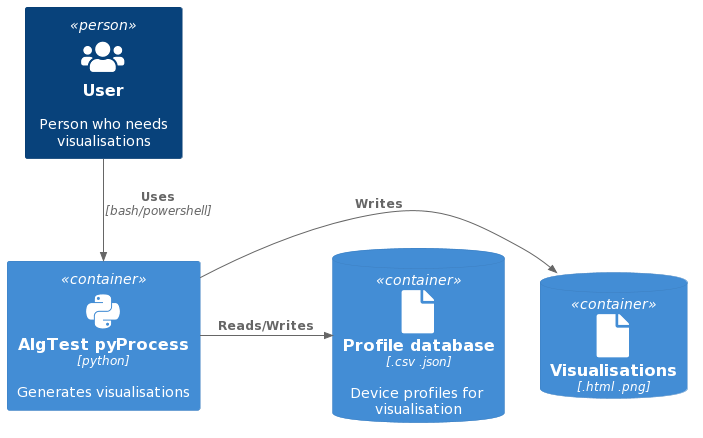
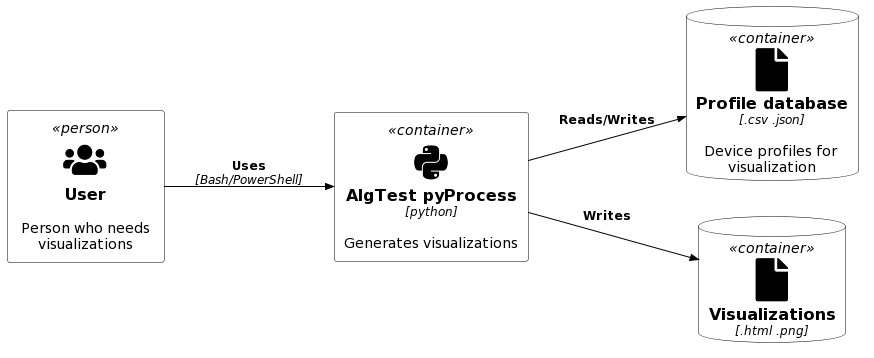
refactor: rewrites in imple part

diff --git a/Sources/Implementation.tex b/Sources/Implementation.tex
@@ -1,6 +1,11 @@
-\chapter{AlgTest process tool}
-In this chapter, we describe the development details of the tool called \texttt{AlgTest Process} of which re-implementation was performed. The tasks for which the tool is responsible are processing the datasets created by automatic testing tools targeted at JavaCard smart cards and Trusted Platform Modules and generating various outputs from these datasets in HTML files.
+\chapter{AlgTest pyProcess tool}
+This chapter describes the development details behind the tool called \texttt{AlgTest pyProcess}, creation of which was main goal of this thesis. Its development began as a reimplementation of tool called \texttt{JCAlgTest Process}. The reasons behind the reimplementation are mentioned in previous chapter.
 
+The \texttt{AlgTest pyProcess} tool responsible for the following tasks:
+\begin{itemize}
+    \item Processing the device profiles generated by automatic testing tools targeted at Trusted Platform Modules and JavaCard smart cards,
+    \item Generation of various outputs from these datasets which are primarily tabular and graphical visualizations.
+\end{itemize}
 \begin{figure}[h]
     \centering
     \includegraphics[width=\textwidth]{img/scheme.png}
@@ -10,12 +15,23 @@ In this chapter, we describe the development details of the tool called \texttt{
 
 
 \section{Parsing}
-The data, namely the run time results we are working with, were collected over the years in parallel with the development of the tools which generate them. Consequentially the data does not have the same form, as there is no prescribed schema. Therefore it is convenient to design suitable means of accessing it. In the re-implementation of the app, the mapping of CSV files into corresponding classes was introduced. This approach makes it significantly easier to manipulate the data, and the resulting code readability is better.
+The \texttt{AlgTest pyProcess} tool is working with datasets which were generated and collected over the years in parallel with the development of the testing tools which generate them. The outputs of these testing tools have been changing over the years too, that is why the testing output for identical device may differ depending on the version of testing tool.
+
+There is no prescribed schema for the datasets, but they generally look very similar. That is why it is convenient to design suitable means of accessing the data contained in them. Such means are provided by mapping these profiles onto class representation. To accomplish this, the CSV files representing device profiles are read and parsed programatically.
 
 \section{Results}
 The tool produces various types of visualization and tables in HTML pages. These results simplify getting information about the tested devices for the human reader. The contents are made responsive, and some visualizations are more interactive.
 
 This section describes each output of the tool.
+
+\begin{table}[H]
+    \begin{tabular*}{c|c|c|c|c|c|c}
+        Device    &  Support & Similarity & Execution time & Radar Comparative & Scalability \\ \hline
+        TPM       &  \\ \hline
+        JavaCard  &  \\
+    \end{tabular*}
+    \caption{Results generated for each device}
+\end{table}
 
 \subsection{Algorithm execution time}
 Algorithm execution time pages are generated for each card separately and present an alternative for searching in the corresponding raw CSV file. The page contains metadata detailing the test performed on this smart card, followed by tables containing algorithm measurement values. There are multiple tables because the tested algorithms are divided into numerous categories. A quick link for each of these categories is provided as a utility to aid searching on the page.

diff --git a/Sources/StateOfTheArt.tex b/Sources/StateOfTheArt.tex
@@ -156,9 +156,9 @@ In this section, the use cases for TPM will be discussed. The use cases will be 
 
 \subsection{Measured boot}
 
-\subsection{Disk Encryption}
+\subsection{Storage Encryption}
 
-\subsection{Anonymous attestation}
+\subsection{Digital Rights Management}
 
 \subsection{Cryptographic schemes using TPM commands}
 
